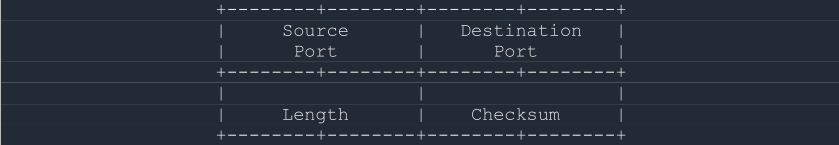
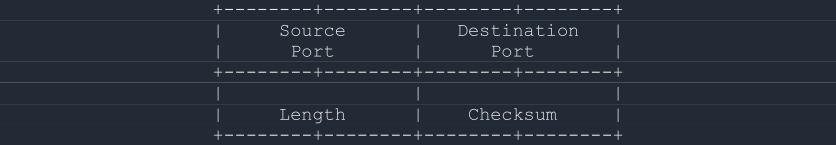
remove udp image

diff --git a/protocols/udp.md b/protocols/udp.md
@@ -4,7 +4,7 @@ The UDP protocol, like TCP, is a data transport protocol. However, it is not rel
 
 Let's take a look at the UDP protocol header.
 
-<figure><img src="../.gitbook/assets/udp-1 (1).png" alt=""><figcaption></figcaption></figure>
+<figure><img src="../.gitbook/assets/udp-1.png" alt=""><figcaption></figcaption></figure>
 
 As we can see, the UDP protocol header is very simple, having only source and destination port, size and checksum.
 
